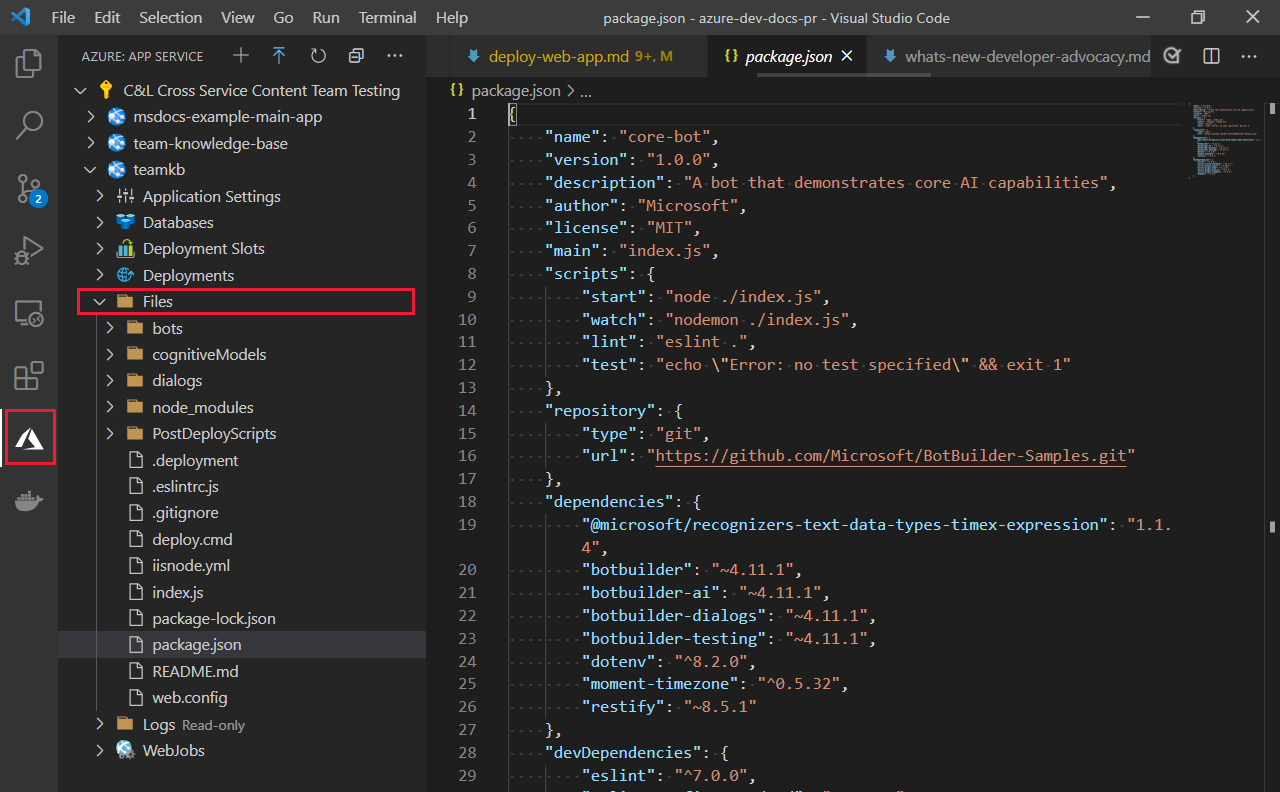
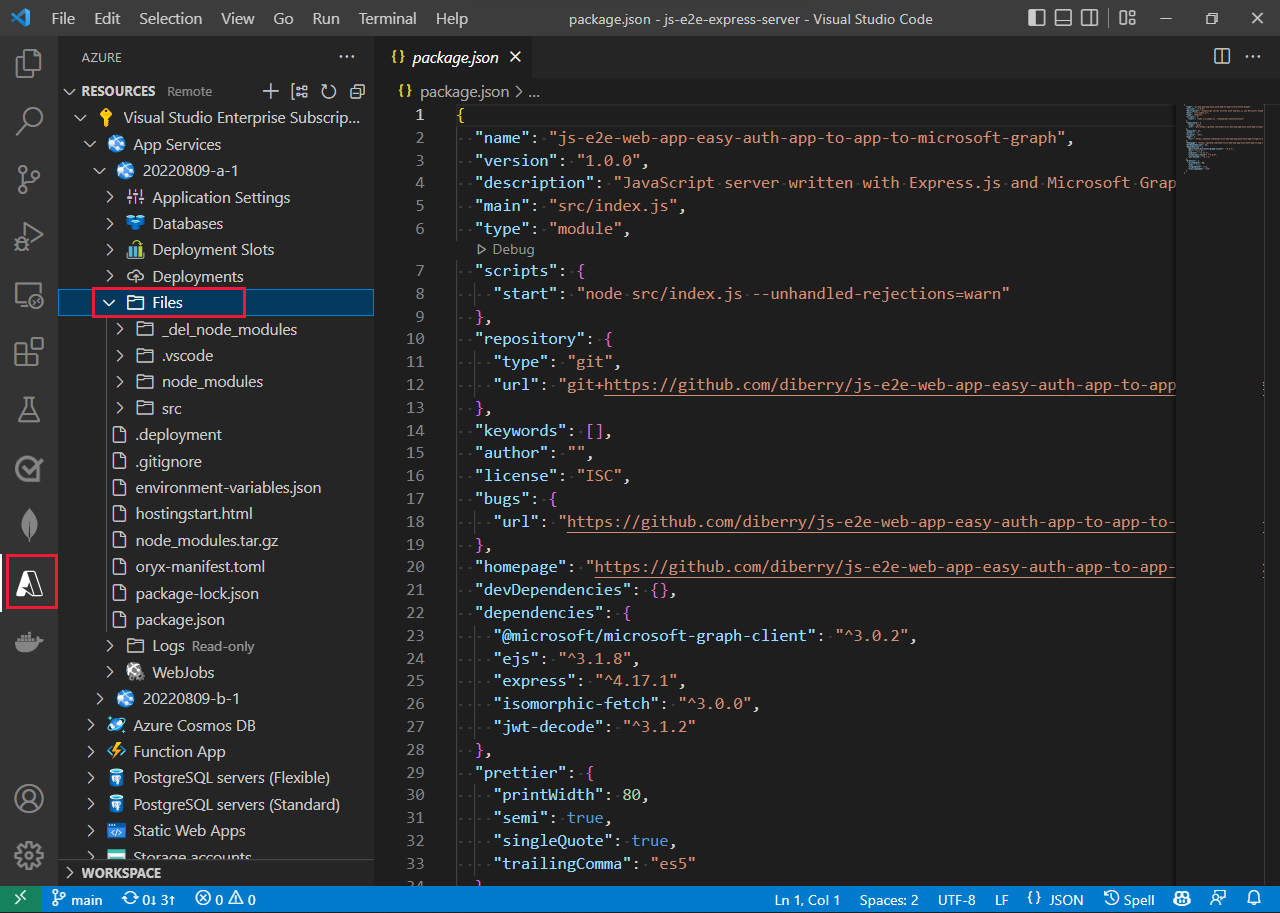
JS - VSCode fix - User Story 700387

diff --git a/articles/javascript/how-to/deploy-web-app.md b/articles/javascript/how-to/deploy-web-app.md
@@ -2,8 +2,8 @@
 title: Deployment options for Azure hosting
 description: Deploying your apps to Azure hosting services means moving a file or set of files to Azure to be served via an HTTP endpoint. 
 ms.topic: how-to
-ms.date: 08/09/2022
-ms.custom: seo-javascript-september2019, seo-javascript-october2019, devx-track-js, contperf-fy21q2
+ms.date: 08/31/2022
+ms.custom: seo-javascript-september2019, seo-javascript-october2019, devx-track-js, contperf-fy21q2, vscode-azure-extension-update-completed 
 ---
 
 # Deployment choices for your web app to Azure
@@ -38,7 +38,12 @@ Do not use deployment slots to mix deployment purposes. All deployment slots sha
 
 ## Deploy with Visual Studio Code
 
-To deploy or redeploy your App service app with Visual Studio Code, right-click your app service from the list of service in the App service extension, then select **Deploy to Web App...**. 
+To deploy or redeploy your App service app with Visual Studio Code, complete the following steps:
+
+1. Install the related Azure extensions, for example [AzureApp Service](https://marketplace.visualstudio.com/items?itemName=ms-azuretools.vscode-azureappservice) or [Azure Functions](https://marketplace.visualstudio.com/items?itemName=ms-azuretools.vscode-azurefunctions).
+1. Open the Azure explorer. Select the Azure icon in the primary side bar or use the keyboard shortcut (<kbd>Shift</kbd> + <kbd>Alt</kbd> + <kbd>A</kbd>).
+1. In the Resources group, select your subscription and service.
+1. Right-click your service then select **Deploy to Web App...**. 
 
 :::image type="content" source="../media/azure-app-service-vscode-extensions/deploy-or-redeploy-app-service.png" alt-text="Deploy or redeploy to App service with Visual Studio Code":::
 
@@ -55,9 +60,9 @@ There are several ways to immediately see the files in your hosted Azure Web app
 
     :::image type="content" source="../media/deployment-methods/deploy-to-azure-web-app-view-files-in-portal-console-window.png" alt-text="In the Azure portal for your web app or function app, select `Console` from the `Development tools` menu.":::
 
-* View files in VS Code extension - select the Azure icon in the Activity bar then select your hosting resource under the service tree. The **Files** node provides a view of your remote files. 
+* View files in VS Code extension: - select the Azure icon in the Activity bar. In the Resources section, select your subscription and service. The **Files** node provides a view of your remote files. 
 
-    * [Azure App service](https://marketplace.visualstudio.com/items?itemName=ms-azuretools.vscode-azureappservice) and [Azure Functions app](https://marketplace.visualstudio.com/items?itemName=ms-azuretools.vscode-azurefunctions) extensions both provide a view of the remote files.
+    * [Azure App service](https://marketplace.visualstudio.com/items?itemName=ms-azuretools.vscode-azureappservice) and [Azure Functions](https://marketplace.visualstudio.com/items?itemName=ms-azuretools.vscode-azurefunctions) extensions both provide a view of the remote files.
 
     :::image type="content" source="../media/deployment-methods/deploy-to-azure-web-app-view-files-in-visual-studio-code-extension.png" alt-text="[Azure App service and Azure Functions app extensions both provide a view of the remote files.":::
 
